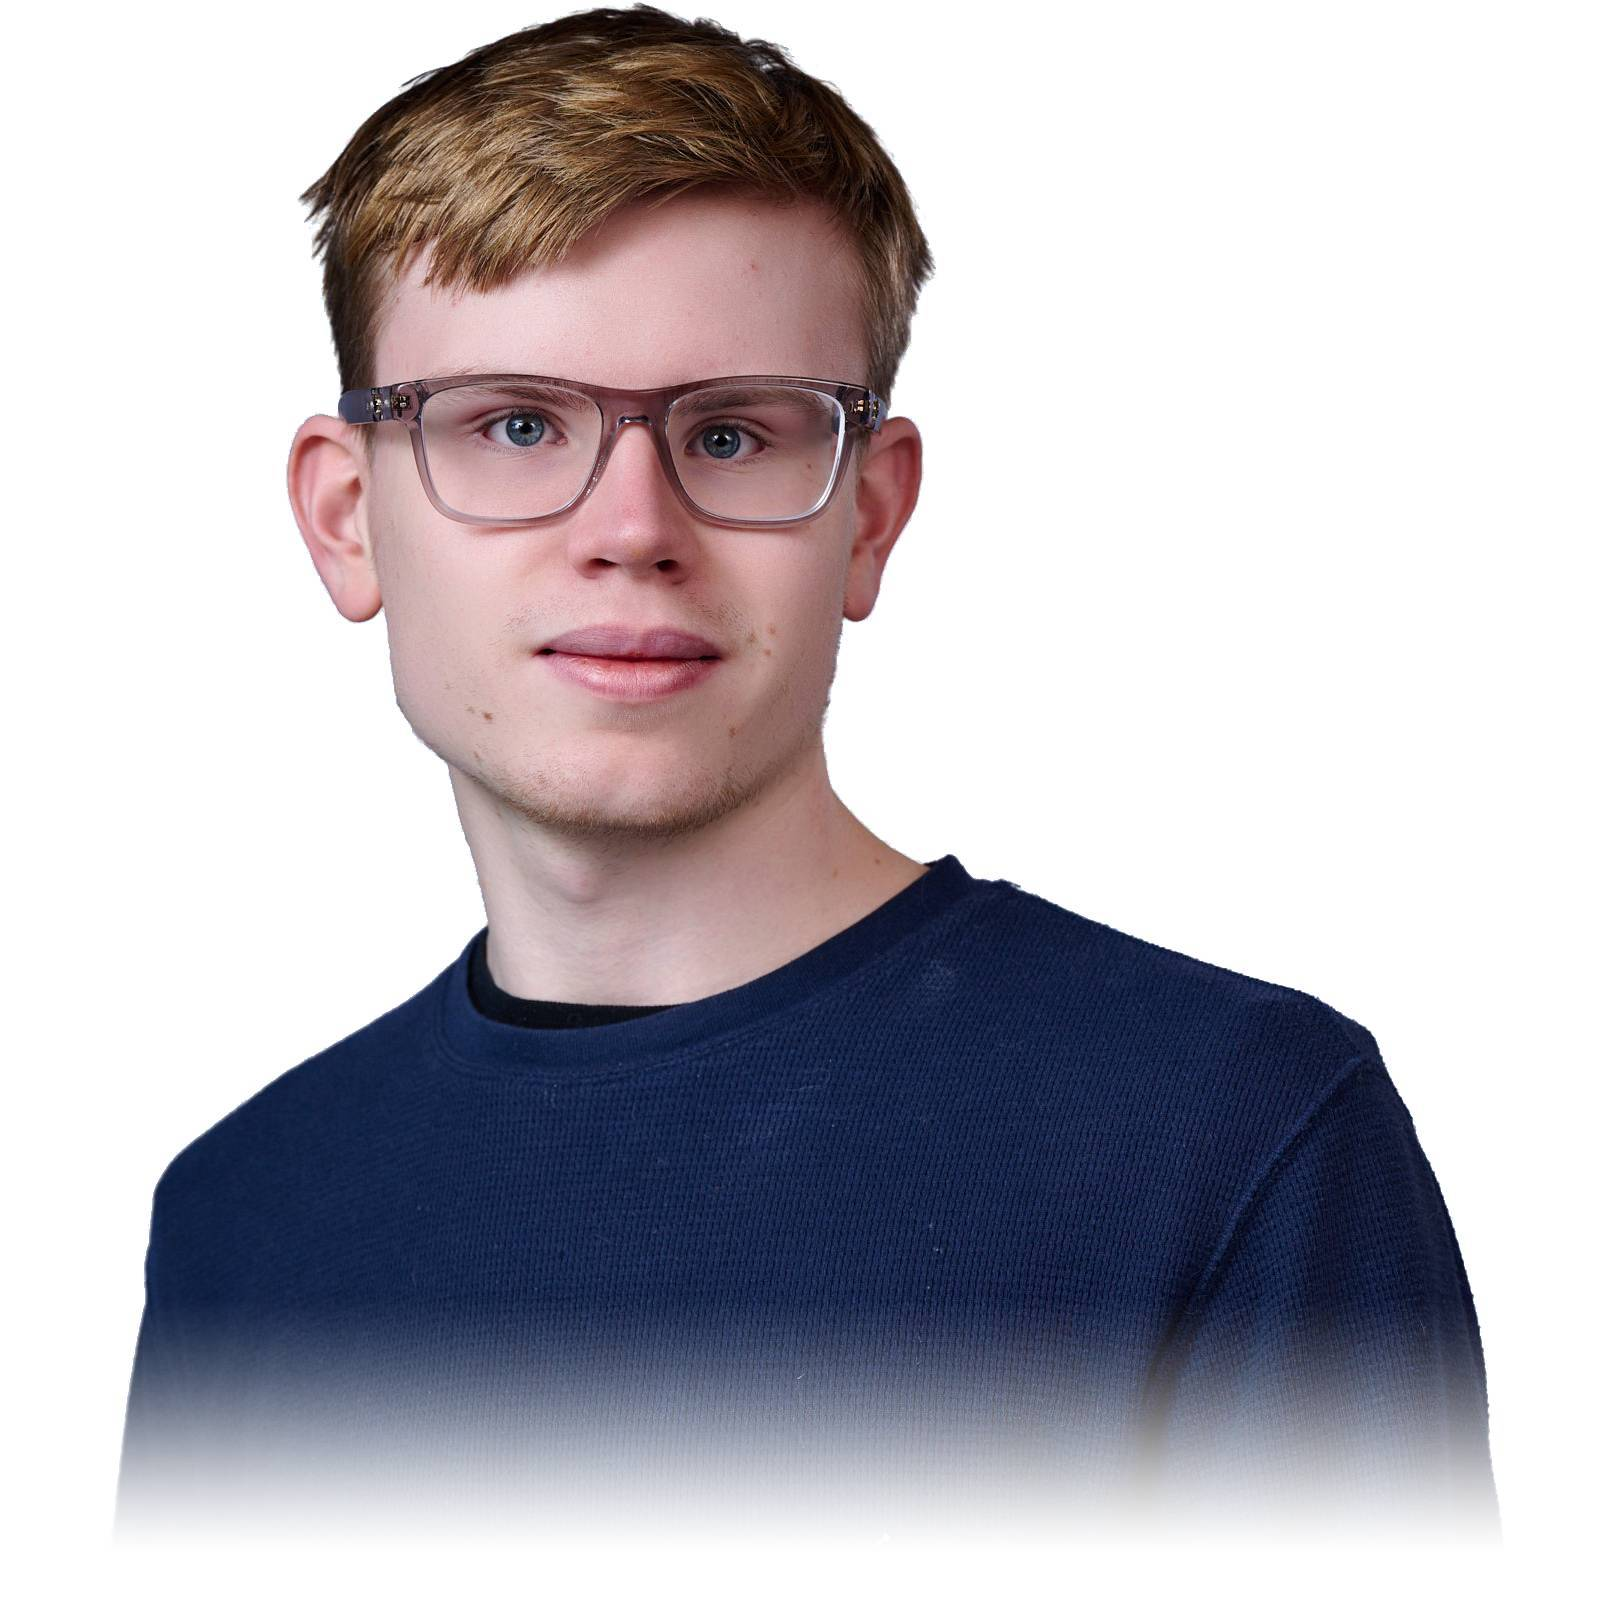
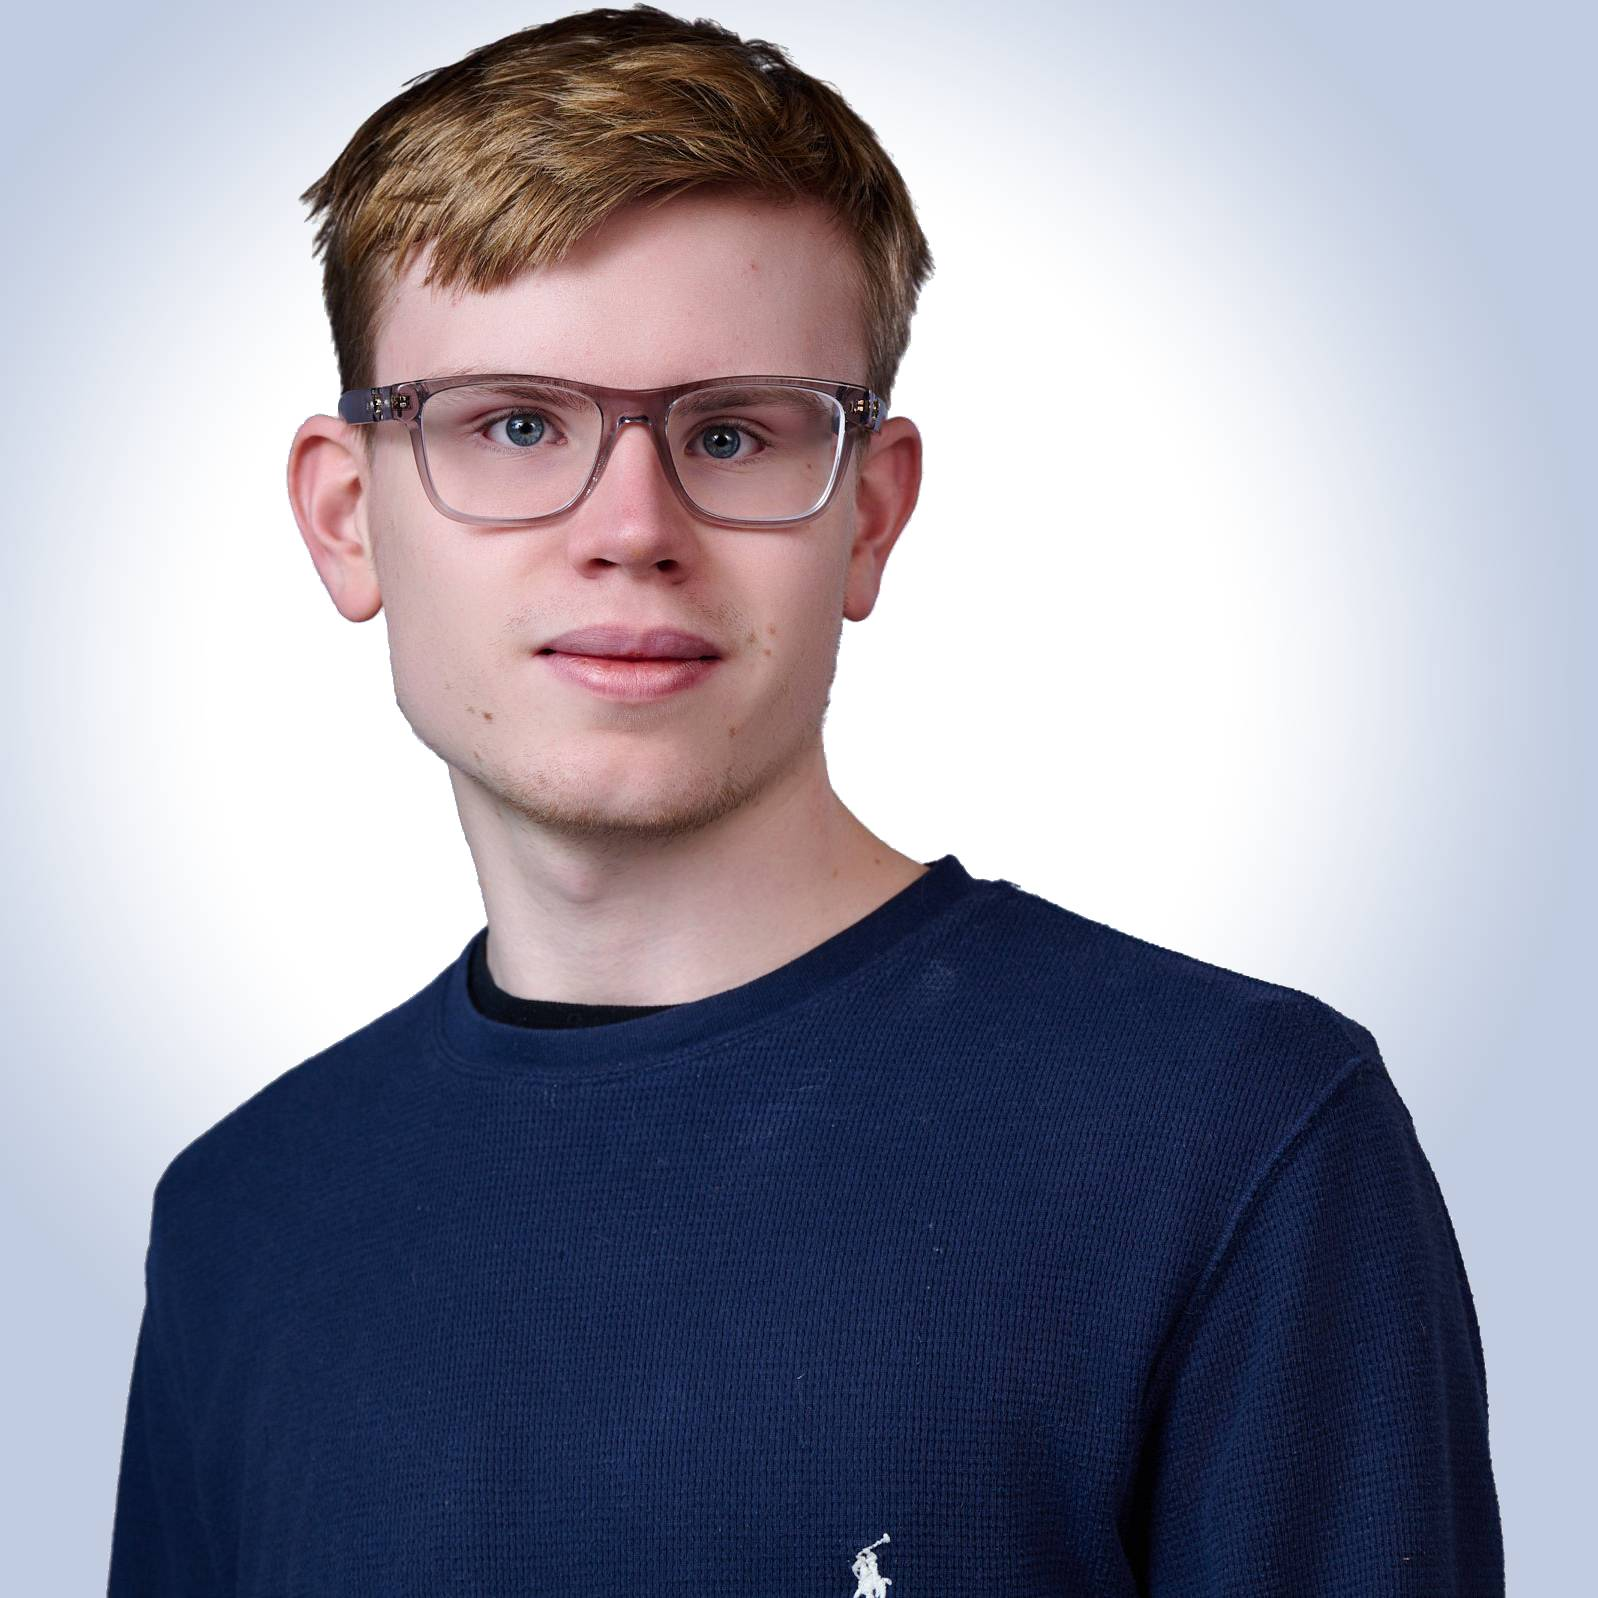
Image gradient

diff --git a/index.html b/index.html
@@ -74,9 +74,9 @@
                                 src="resources/index/Me-800.jpg"
 
                                 srcset = "
-                                    resources/index/Me-400.jpg 400w,
-                                    resources/index/Me-800.jpg 800w,
-                                    resources/index/Me-1598.jpg 800w,
+                                    resources/index/Me-Gradient-400.jpg 400w,
+                                    resources/index/Me-Gradient-800.jpg 800w,
+                                    resources/index/Me-Gradient-1598.jpg 800w,
                                 " 
                                 sizes = "
                                     (max-width: 500px) 224px,
